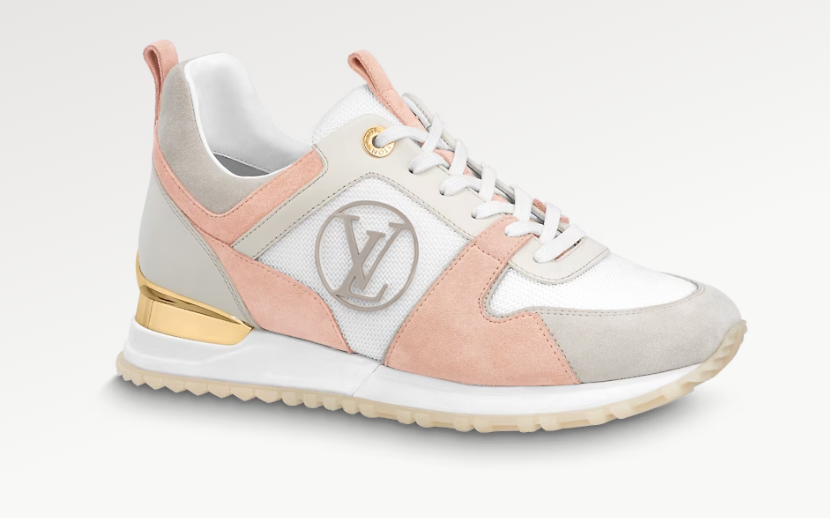
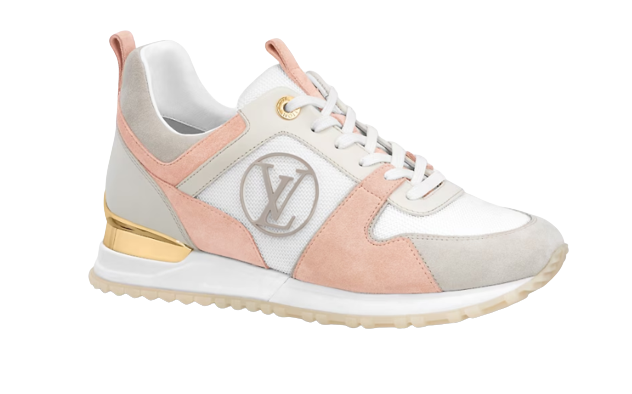
replaced images with transparent backgrounds, fixed seed data to reflect image renames

Changed region(s): [[0.1203, 0.7005, 0.8718, 0.8832], [0.0, 0.0, 0.2104, 0.1218]]

diff --git a/client/src/components/Footer/socialFollow.js b/client/src/components/Footer/socialFollow.js
@@ -14,19 +14,19 @@ export default function SocialFollow() {
   
         <div className="social-icons">
           <a href="https://www.Facebook.com" className="facebook social">
-            <FontAwesomeIcon icon={faFacebook} size="2x" />
+            <FontAwesomeIcon icon={faFacebook} size="3x" />
           </a>
   
           <a href="https://www.Twitter.com" className="twitter social">
-            <FontAwesomeIcon icon={faTwitter} size="2x" />
+            <FontAwesomeIcon icon={faTwitter} size="3x" />
           </a>
   
           <a href="https://www.Instagram.com" className="instagram social">
-            <FontAwesomeIcon icon={faInstagram} size="2x" />
+            <FontAwesomeIcon icon={faInstagram} size="3x" />
           </a>
   
           <a href="https://www.Youtube.com" className="youtube social">
-            <FontAwesomeIcon icon={faYoutube} size="2x" />
+            <FontAwesomeIcon icon={faYoutube} size="3x" />
           </a>
         </div>
       </div>
